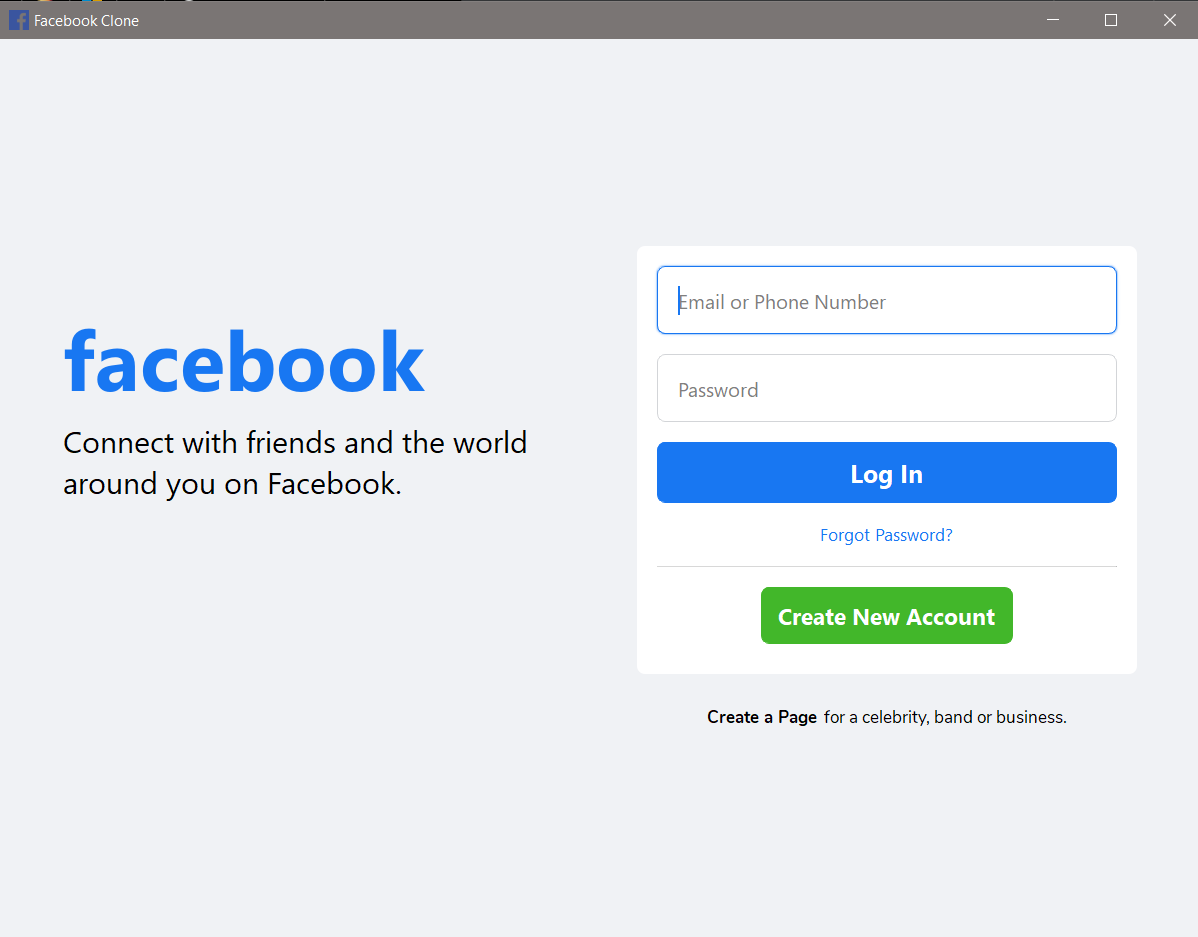
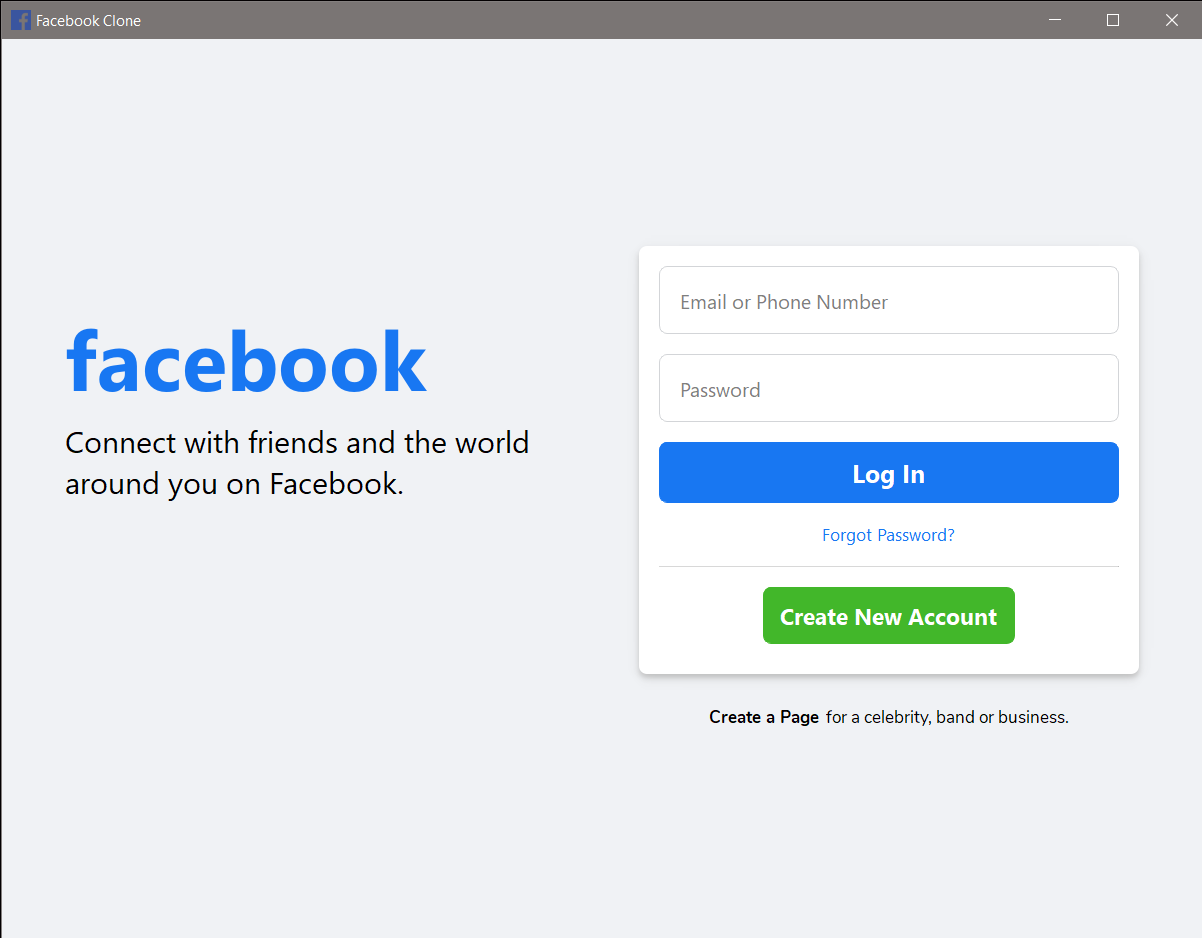
updated looks and screenshots

diff --git a/Facebook/Log_In_Page/ui_mainwindow.py b/Facebook/Log_In_Page/ui_mainwindow.py
@@ -93,6 +93,12 @@ class UiMainWindow(QWidget):
         # <RIGHT LAYOUT>
         self.frame = QFrame()
         self.frame.setObjectName('big_frame')
+        effect = QGraphicsDropShadowEffect(self.frame)
+        effect.setOffset(0, 4)  # nailed it here but don't know what this means
+        effect.setColor(QColor('#bcbcbc'))
+        effect.setBlurRadius(15)
+        self.frame.setGraphicsEffect(effect)
+
         self.frame.setFixedWidth(500)
         self.frame_layout = QVBoxLayout()
         self.frame_layout.setContentsMargins(20, 20, 20, 30)

diff --git a/README.md b/README.md
@@ -9,4 +9,4 @@ Repo for clones of popular apps/websites just for practice.
   ![FB_actual](https://raw.githubusercontent.com/CHR-onicles/Clone_Wars/main/Facebook/Log_In_Page/screenshots/facebook_site.png)
   
     **Clone:**
-    <img src='Facebook/Log_In_Page/screenshots/fb_clone.png' width=800> 
+  ![FB_actual](https://raw.githubusercontent.com/CHR-onicles/Clone_Wars/main/Facebook/Log_In_Page/screenshots/fb_clone.png)
